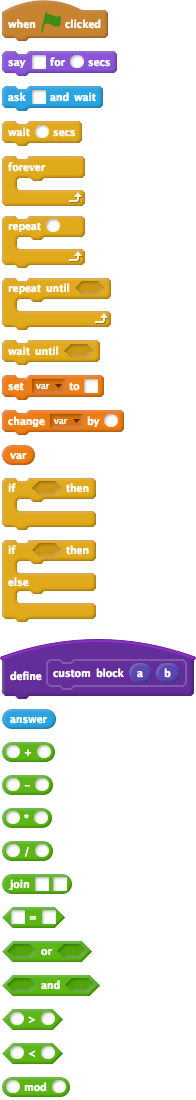
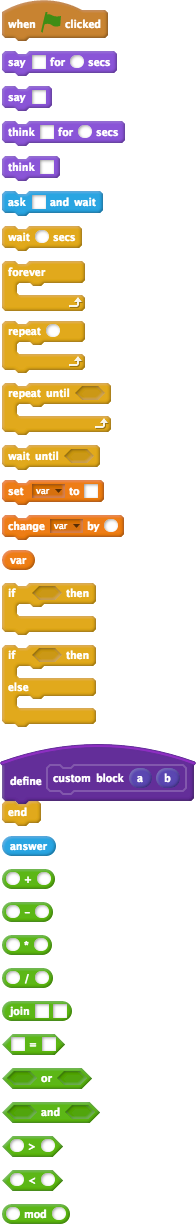
Added support for say [], think [] for () secs, and think []

diff --git a/convert.py b/convert.py
@@ -135,6 +135,12 @@ def convert_blocks(blocks):
     for block in blocks:
         if block.name == "say:duration:elapsed:from:":
             lines.append("yield from self.sayfor({}, {})".format(*map(convert_reporters, block.args)))
+        elif block.name == "say:":
+            lines.append("yield from self.say({})".format(*map(convert_reporters, block.args)))
+        elif block.name == "think:duration:elapsed:from:":
+            lines.append("yield from self.thinkfor({}, {})".format(*map(convert_reporters, block.args)))
+        elif block.name == "think:":
+            lines.append("yield from self.think({})".format(*map(convert_reporters, block.args)))
         elif block.name == "wait:elapsed:from":
             lines.append("yield from self.wait({})".format(*map(convert_reporters, block.args)))
         elif block.name == "doAsk":

diff --git a/runtime.py b/runtime.py
@@ -66,6 +66,19 @@ class runtime_Sprite(runtime_Stage):
         "Says thing for time seconds"
         print("{} says '{}'".format(self.__class__.__name__, thing))
         yield from asyncio.sleep(time)
+    @asyncio.coroutine
+    def say(self, thing):
+        "Says thing"
+        print("{} says '{}'".format(self.__class__.__name__, thing))
+    @asyncio.coroutine
+    def thinkfor(self, thing, time):
+        "Thinks thing for time seconds"
+        print("{} thinks '{}'".format(self.__class__.__name__, thing))
+        yield from asyncio.sleep(time)
+    @asyncio.coroutine
+    def think(self, thing):
+        "Thinks thing"
+        print("{} thinks '{}'".format(self.__class__.__name__, thing))
 
 def convert_and_run_math(op, a, b):
     num_a, _ = convert_to_num(a)
